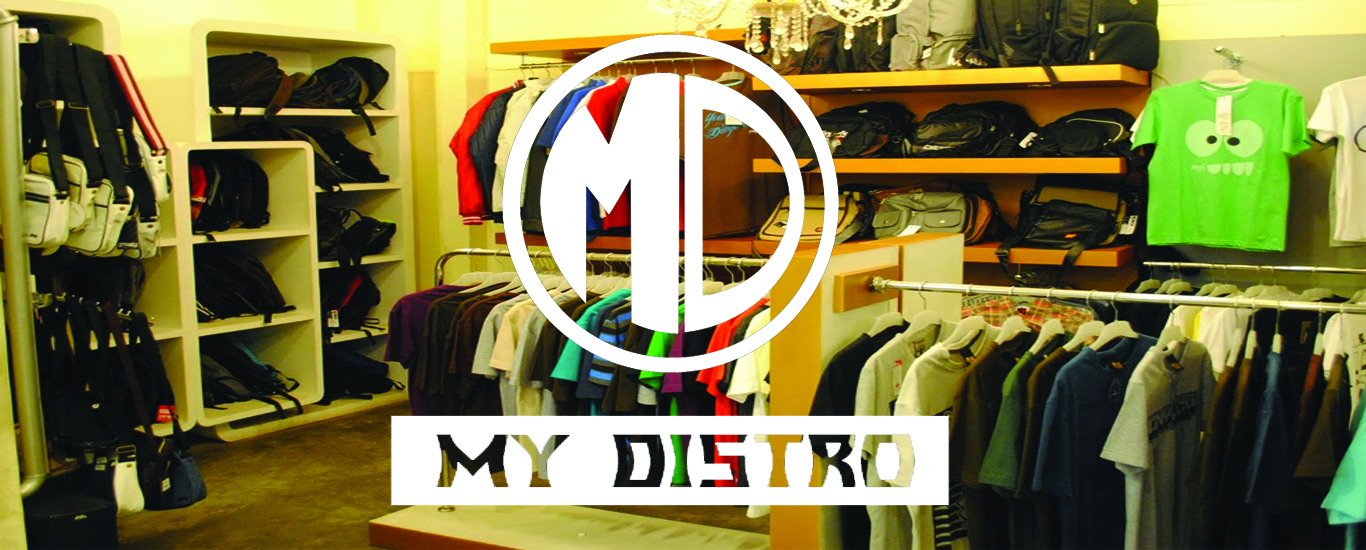
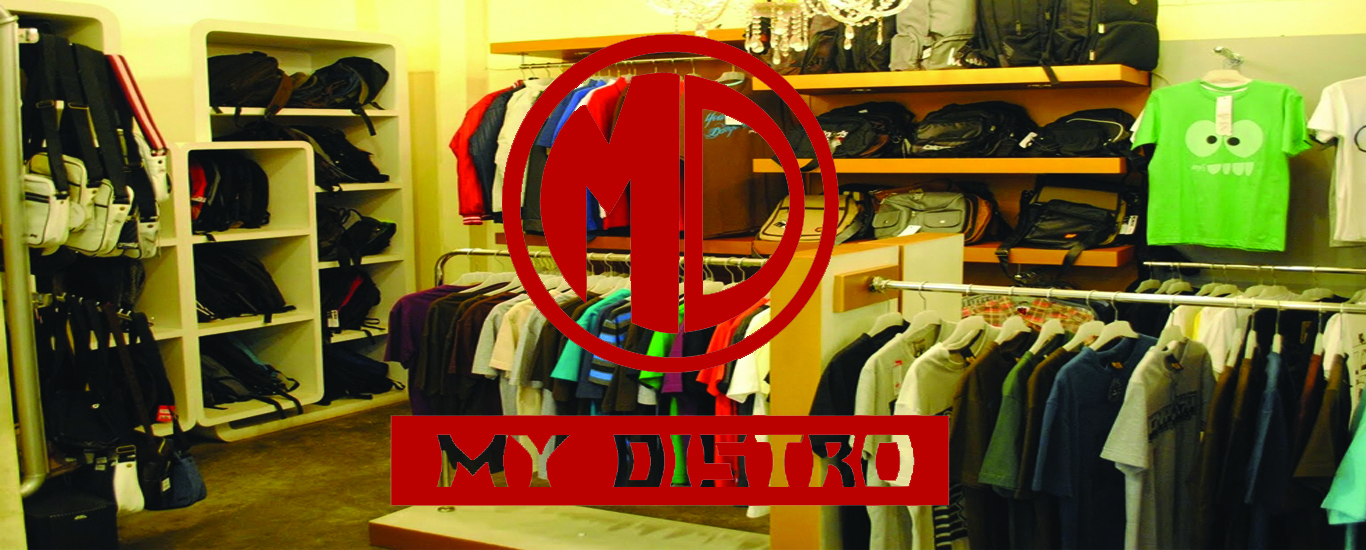
Add files via upload

Changed region(s): [[0.369, 0.0618, 0.6149, 0.68], [0.2767, 0.7418, 0.7072, 0.9273]]

diff --git a/css/style.css b/css/style.css
@@ -1,10 +1,10 @@
 body{
-    background-color: #000000;
+    background-color: #bb0f00;
     margin: 0;
 }
 
 #header{
-  background-color: #000000;
+  background-color: #bb0f00;
   height: 110px;
 }
 
@@ -47,7 +47,7 @@ body{
 }
 
 #sponsor	{
-	background-color: #000000;
+	background-color: #bb0f00;
 	color: #ffffff;
 }
 
@@ -63,7 +63,7 @@ body{
 }
 
 #sponsor-02{
-	background-color: #000000;
+	background-color: #bb0f00;
 	color: #ffffff;
 }
 
